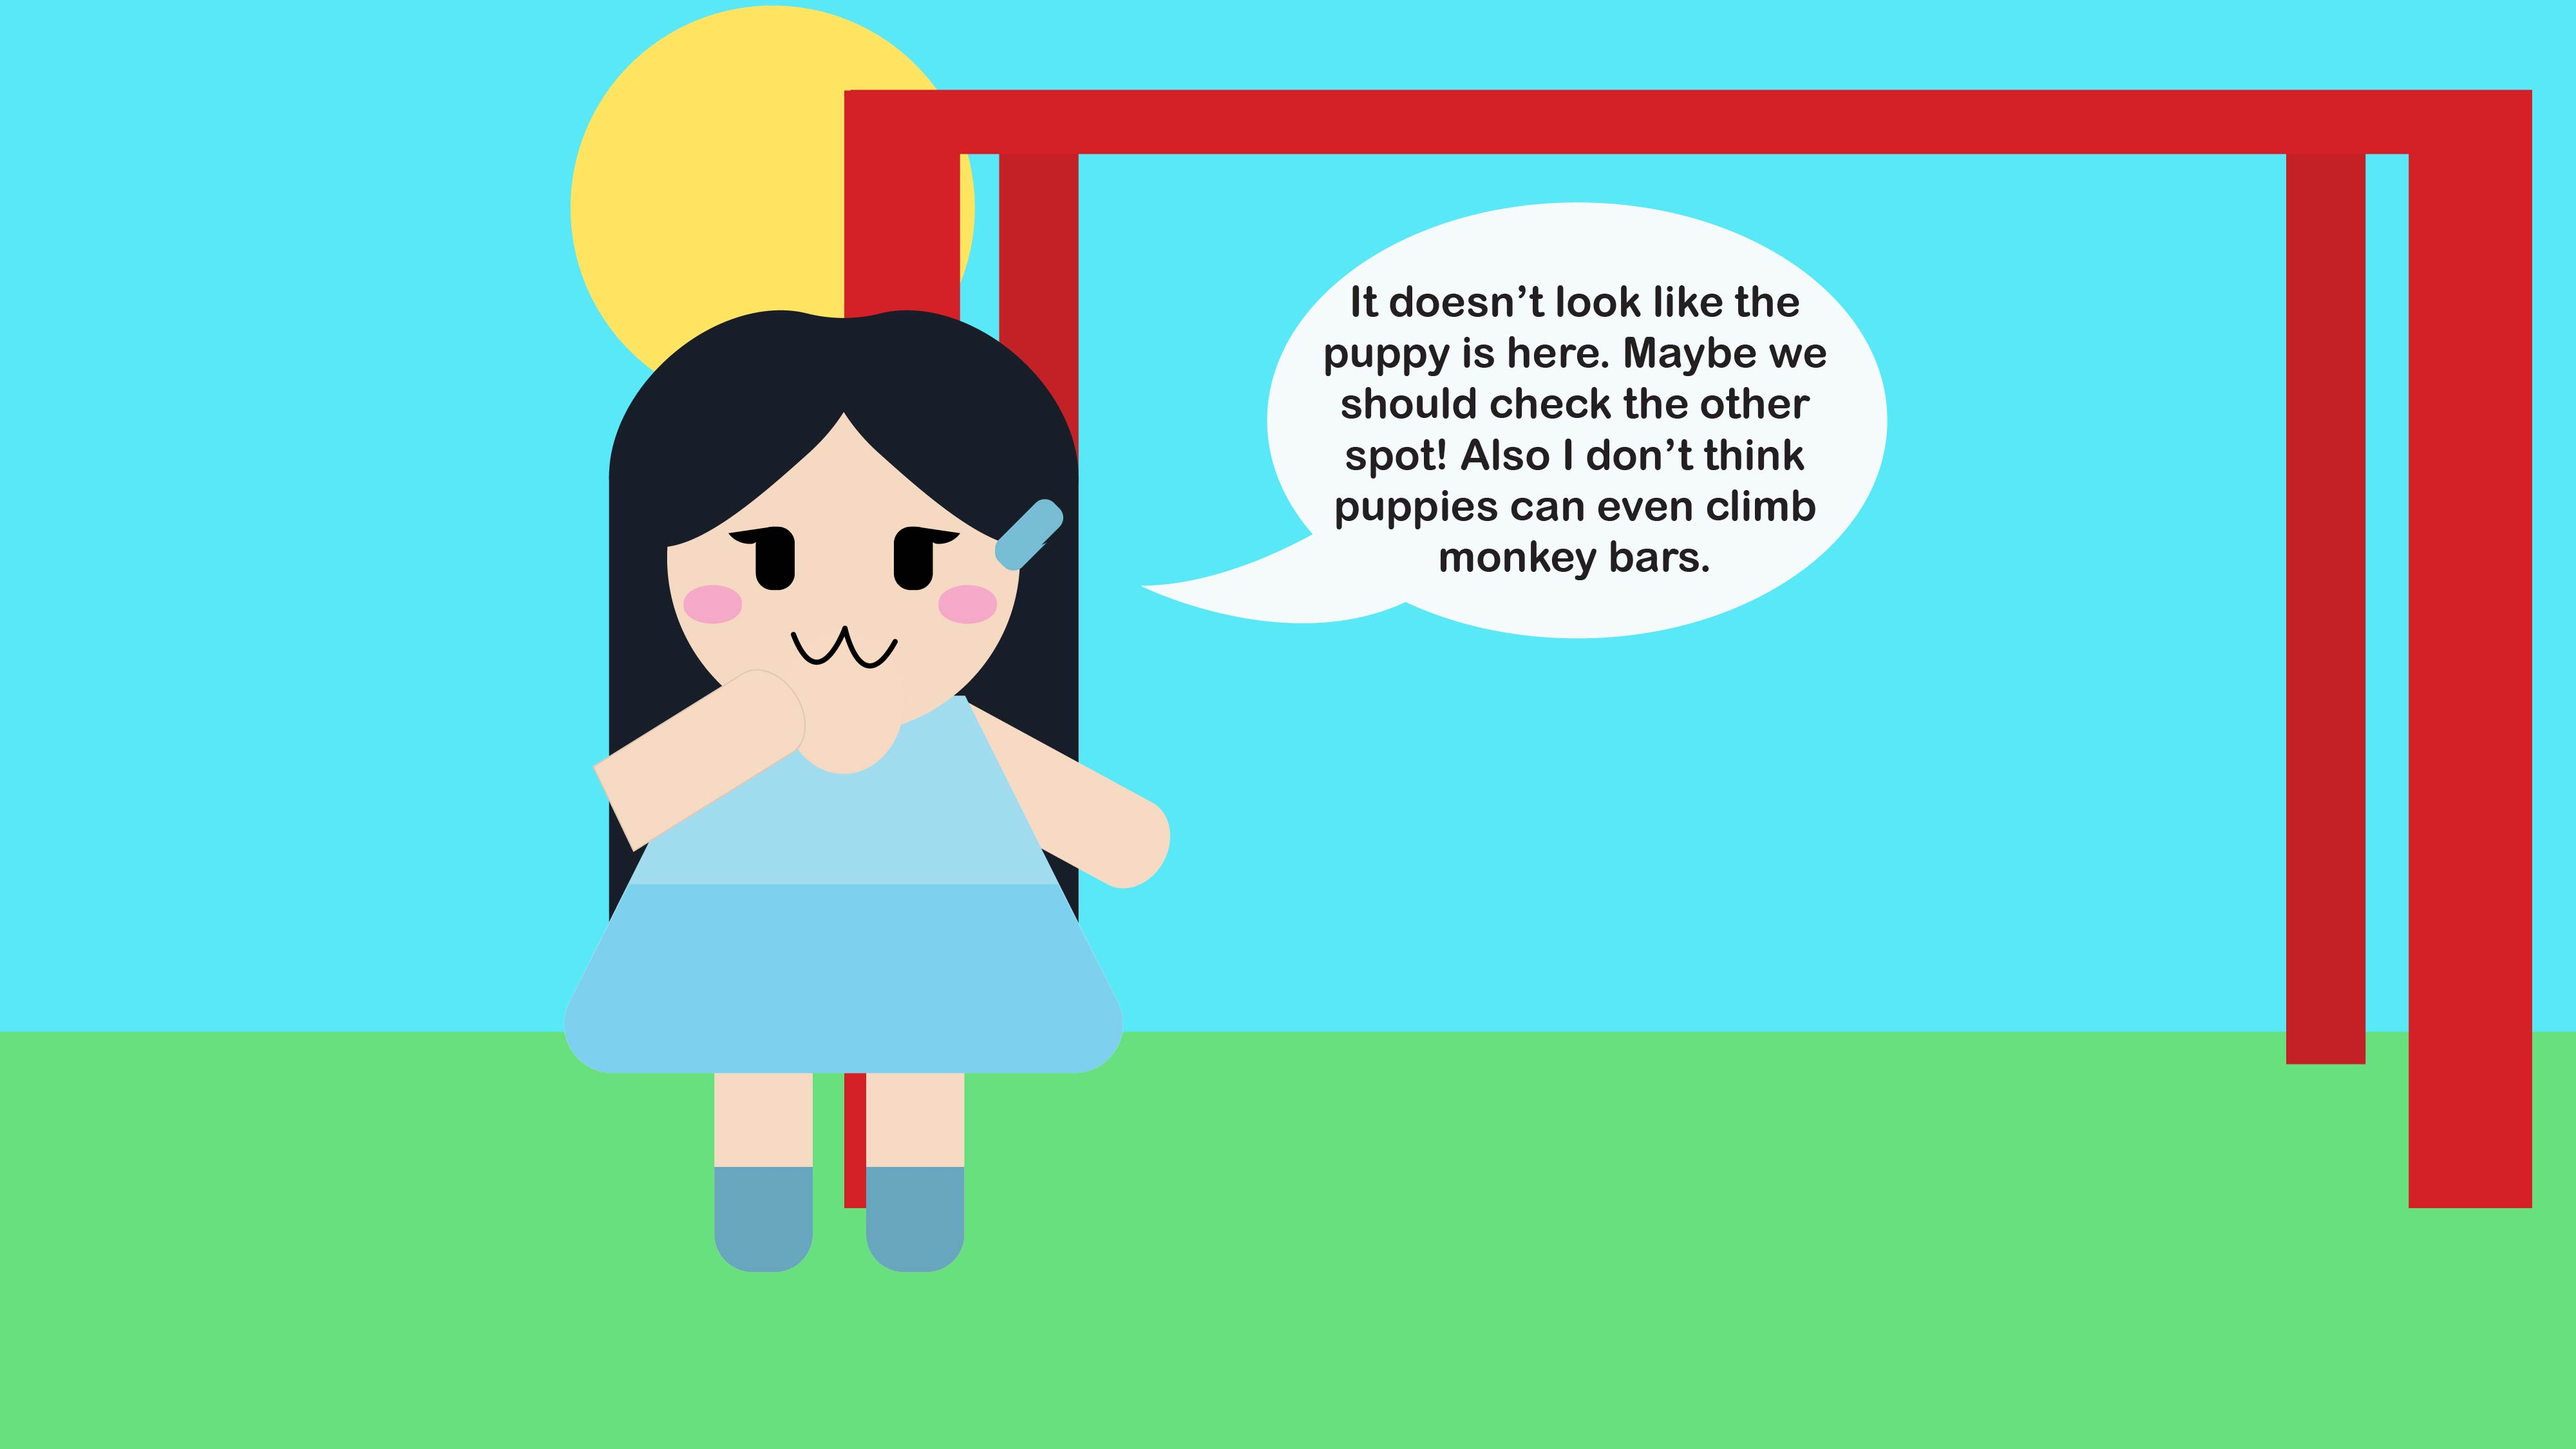
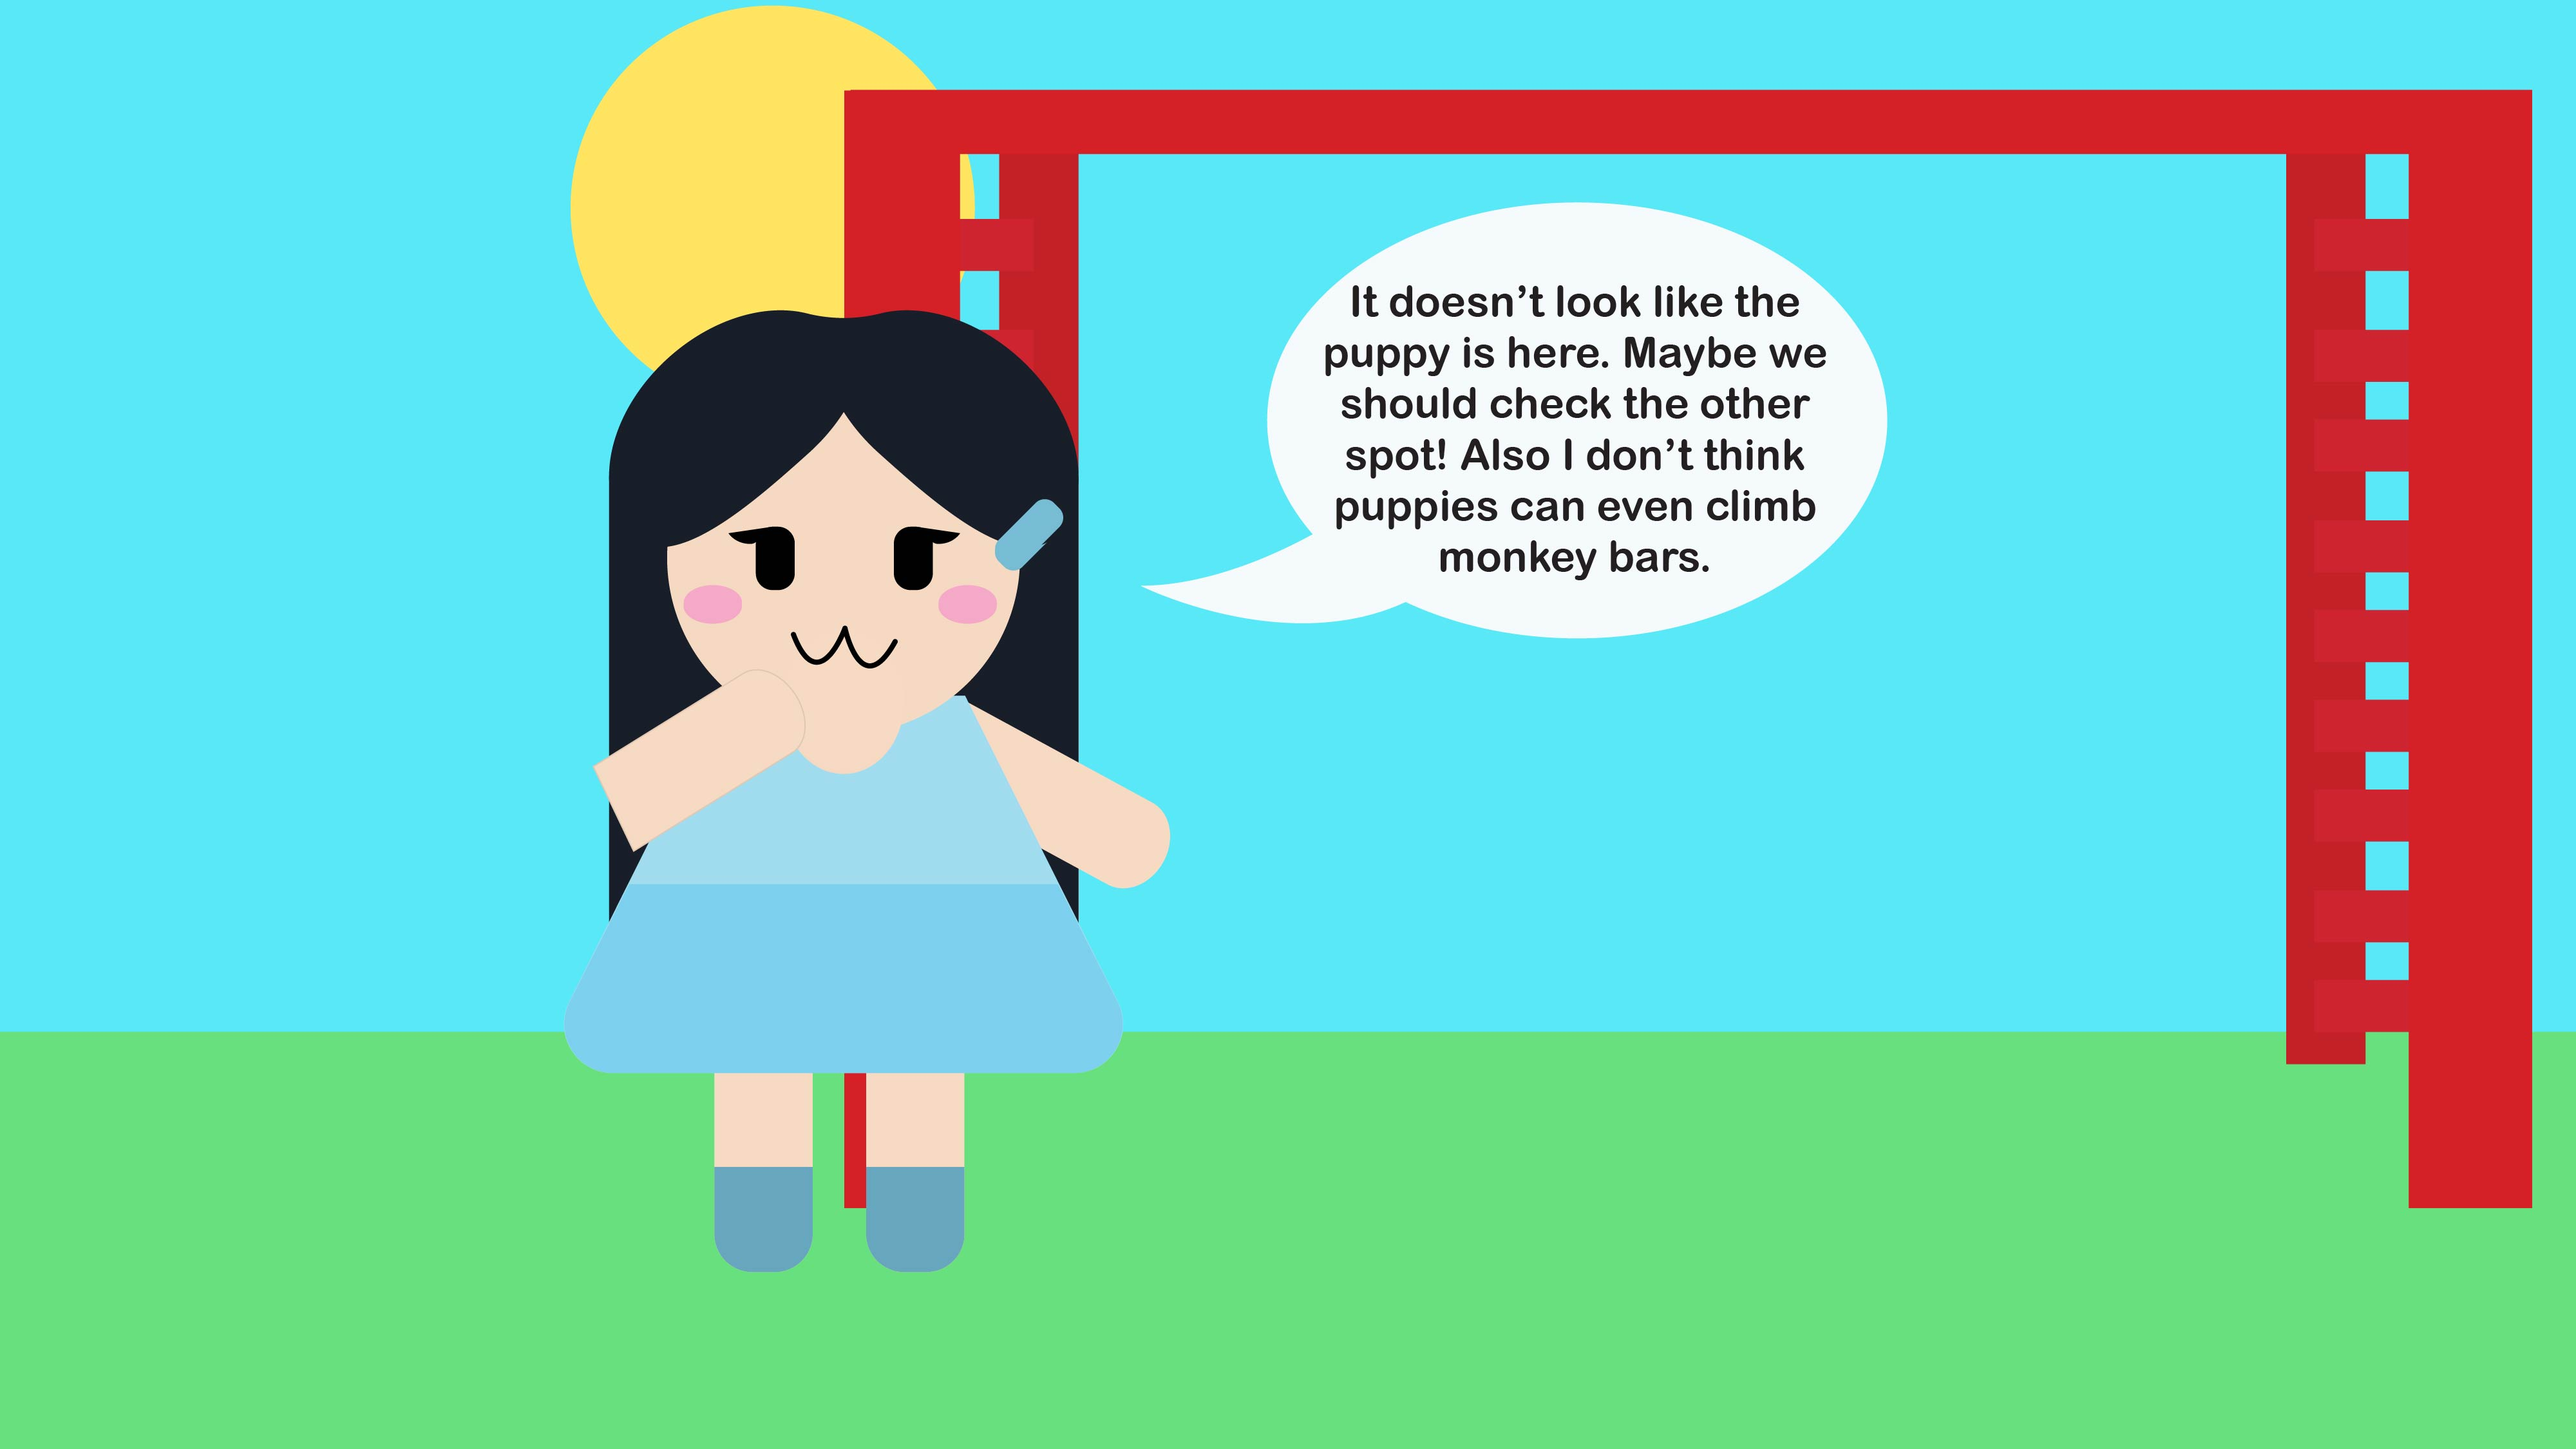
hopefullylastupdate

Changed region(s): [[0.9062, 0.2178, 0.9375, 0.7156], [0.9062, 0.1556, 0.9375, 0.1867], [0.375, 0.1556, 0.4062, 0.1867]]

diff --git a/findthepuppy/decidingplace.html b/findthepuppy/decidingplace.html
@@ -12,7 +12,11 @@
     </style>
 </head>
 <body>
-    <hidden style="position: absolute; top: 55%; left: 60%; transform: translate(-50%, -50%)">
+   <hidden style="position: absolute; top: 10%; left: 5%; transform: translate(-50%, -50%)">
+        <width="40" height="40">
+    <a href="index.html">
+        <img src="homebutton.png"></a>
+    <hidden style="position: absolute; top: 12cm; left: 25cm; transform: translate(-50%, -50%)">
         <width="40" height="40">
     <a href="playground.html" target="_blank">
         <img src="playgroundoption.png"></a>
@@ -24,5 +28,6 @@
         <width="40" height="40">
     <a href="house.html" target="_blank">
         <img src="houseoption.png"></a>
+
 </body>
 </html>

diff --git a/findthepuppy/beachtowel.html b/findthepuppy/beachtowel.html
@@ -12,9 +12,13 @@
     </style>
 </head>
 <body>
-    <hidden style="position: absolute; top: 55%; left: 60%; transform: translate(-50%, -50%)">
+    <hidden style="position: absolute; top: 10%; left: 5%; transform: translate(-50%, -50%)">
         <width="40" height="40">
-    <a href="beach.html" target="_blank">
+    <a href="index.html">
+        <img src="homebutton.png"></a>
+    <hidden style="position: absolute; top: 12cm; left: 25cm; transform: translate(-50%, -50%)">
+        <width="40" height="40">
+    <a href="beach.html" >
         <img src="goback.png"></a>
 </body>
 </html>

diff --git a/findthepuppy/kitchen.html b/findthepuppy/kitchen.html
@@ -12,9 +12,13 @@
     </style>
 </head>
 <body>
-    <hidden style="position: absolute; top: 55%; left: 60%; transform: translate(-50%, -50%)">
+    <hidden style="position: absolute; top: 10%; left: 5%; transform: translate(-50%, -50%)">
         <width="40" height="40">
-    <a href="house.html" target="_blank">
+    <a href="index.html">
+        <img src="homebutton.png"></a>
+    <hidden style="position: absolute; top: 12cm; left: 25cm; transform: translate(-50%, -50%)">
+        <width="40" height="40">
+    <a href="house.html">
         <img src="goback.png"></a>
 </body>
 </html>

diff --git a/findthepuppy/findthepuppyending.html b/findthepuppy/findthepuppyending.html
@@ -1,0 +1,20 @@
+<!DOCTYPE html>
+<html lang="en">
+<head>
+    <meta charset="UTF-8">
+    <meta name="viewport" content="width=device-width, initial-scale=1.0">
+    <title>Find the Puppy Ending</title>
+    <style>
+        body {
+            background-image: url(findthepuppyending.jpg);
+            background-size: cover;
+        }
+    </style>
+</head>
+<body>
+    <hidden style="position: absolute; top: 60%; left: 60%; transform: translate(-50%, -50%)">
+        <width="40" height="40">
+    <a href="index.html">
+        <img src="playagainoption.png"></a>
+</body>
+</html>

diff --git a/findthepuppy/theend.html b/findthepuppy/theend.html
@@ -1,0 +1,20 @@
+<!DOCTYPE html>
+<html lang="en">
+<head>
+    <meta charset="UTF-8">
+    <meta name="viewport" content="width=device-width, initial-scale=1.0">
+    <title>The End</title>
+    <style>
+        body {
+            background-image: url(theending.jpg);
+            background-size: cover;
+        }
+    </style>
+</head>
+<body>
+    <hidden style="position: absolute; top: 90%; left: 50%; transform: translate(-50%, -50%)">
+        <width="40" height="40">
+    <a href="index.html">
+        <img src="playagainoption.png">
+</body>
+</html>

diff --git a/findthepuppy/yes.html b/findthepuppy/yes.html
@@ -12,7 +12,11 @@
     </style>
 </head>
 <body>
-    <hidden style="position: absolute; top: 55%; left: 60%; transform: translate(-50%, -50%)">
+    <hidden style="position: absolute; top: 10%; left: 5%; transform: translate(-50%, -50%)">
+        <width="40" height="40">
+    <a href="index.html">
+        <img src="homebutton.png"></a>
+    <hidden style="position: absolute; top: 12cm; left: 25cm; transform: translate(-50%, -50%)">
         <width="40" height="40">
     <a href="decidingplace.html" target="_blank">
         <img src="whereplace.png">

diff --git a/findthepuppy/beachsearch.html b/findthepuppy/beachsearch.html
@@ -12,7 +12,11 @@
     </style>
 </head>
 <body>
-    <hidden style="position: absolute; top: 55%; left: 60%; transform: translate(-50%, -50%)">
+    <hidden style="position: absolute; top: 10%; left: 5%; transform: translate(-50%, -50%)">
+        <width="40" height="40">
+    <a href="index.html">
+        <img src="homebutton.png"></a>
+    <hidden style="position: absolute; top: 12cm; left: 25cm; transform: translate(-50%, -50%)">
         <width="40" height="40">
     <a href="beachsandcastle.html">
         <img src="behindsandcastle.png"></a>

diff --git a/findthepuppy/beach.html b/findthepuppy/beach.html
@@ -12,7 +12,11 @@
     </style>
 </head>
 <body>
-       <hidden style="position: absolute; top: 55%; left: 60%; transform: translate(-50%, -50%)">
+    <hidden style="position: absolute; top: 10%; left: 5%; transform: translate(-50%, -50%)">
+        <width="40" height="40">
+    <a href="index.html">
+        <img src="homebutton.png"></a>
+       <hidden style="position: absolute; top: 12cm; left: 25cm; transform: translate(-50%, -50%)">
         <width="40" height="40">
     <a href="beachchair.html">
         <img src="bythechairs.png"></a>

diff --git a/findthepuppy/playgroundsearch.html b/findthepuppy/playgroundsearch.html
@@ -12,7 +12,11 @@
     </style>
 </head>
 <body>
-    <hidden style="position: absolute; top: 55%; left: 60%; transform: translate(-50%, -50%)">
+    <hidden style="position: absolute; top: 10%; left: 5%; transform: translate(-50%, -50%)">
+        <width="40" height="40">
+    <a href="index.html">
+        <img src="homebutton.png"></a>
+    <hidden style="position: absolute; top: 12cm; left: 25cm; transform: translate(-50%, -50%)">
         <width="40" height="40">
     <a href="playgroundswings.html">
         <img src="swingsoption.png">

diff --git a/findthepuppy/playground.html b/findthepuppy/playground.html
@@ -12,7 +12,11 @@
     </style>
 </head>
 <body>
-    <hidden style="position: absolute; top: 55%; left: 60%; transform: translate(-50%, -50%)">
+    <hidden style="position: absolute; top: 10%; left: 5%; transform: translate(-50%, -50%)">
+        <width="40" height="40">
+    <a href="index.html">
+        <img src="homebutton.png"></a>
+    <hidden style="position: absolute; top: 12cm; left: 25cm; transform: translate(-50%, -50%)">
         <width="40" height="40">
     <a href="playgroundslide.html">
         <img src="slideoption.png">

diff --git a/findthepuppy/playgroundseesaw.html b/findthepuppy/playgroundseesaw.html
@@ -12,7 +12,11 @@
     </style>
 </head>
 <body>
-    <hidden style="position: absolute; top: 55%; left: 60%; transform: translate(-50%, -50%)">
+    <hidden style="position: absolute; top: 10%; left: 5%; transform: translate(-50%, -50%)">
+        <width="40" height="40">
+    <a href="index.html">
+        <img src="homebutton.png"></a>
+    <hidden style="position: absolute; top: 12cm; left: 25cm; transform: translate(-50%, -50%)">
         <width="40" height="40">
     <a href="playgroundrunaway.html">
         <img src="grabpuppy.png">

diff --git a/findthepuppy/beachchair.html b/findthepuppy/beachchair.html
@@ -12,7 +12,11 @@
     </style>
 </head>
 <body>
-    <hidden style="position: absolute; top: 55%; left: 60%; transform: translate(-50%, -50%)">
+    <hidden style="position: absolute; top: 10%; left: 5%; transform: translate(-50%, -50%)">
+        <width="40" height="40">
+    <a href="index.html">
+        <img src="homebutton.png"></a>
+    <hidden style="position: absolute; top: 12cm; left: 25cm; transform: translate(-50%, -50%)">
         <width="40" height="40">
     <a href="beachrunaway.html">
         <img src="grabpuppy.png"></a>
